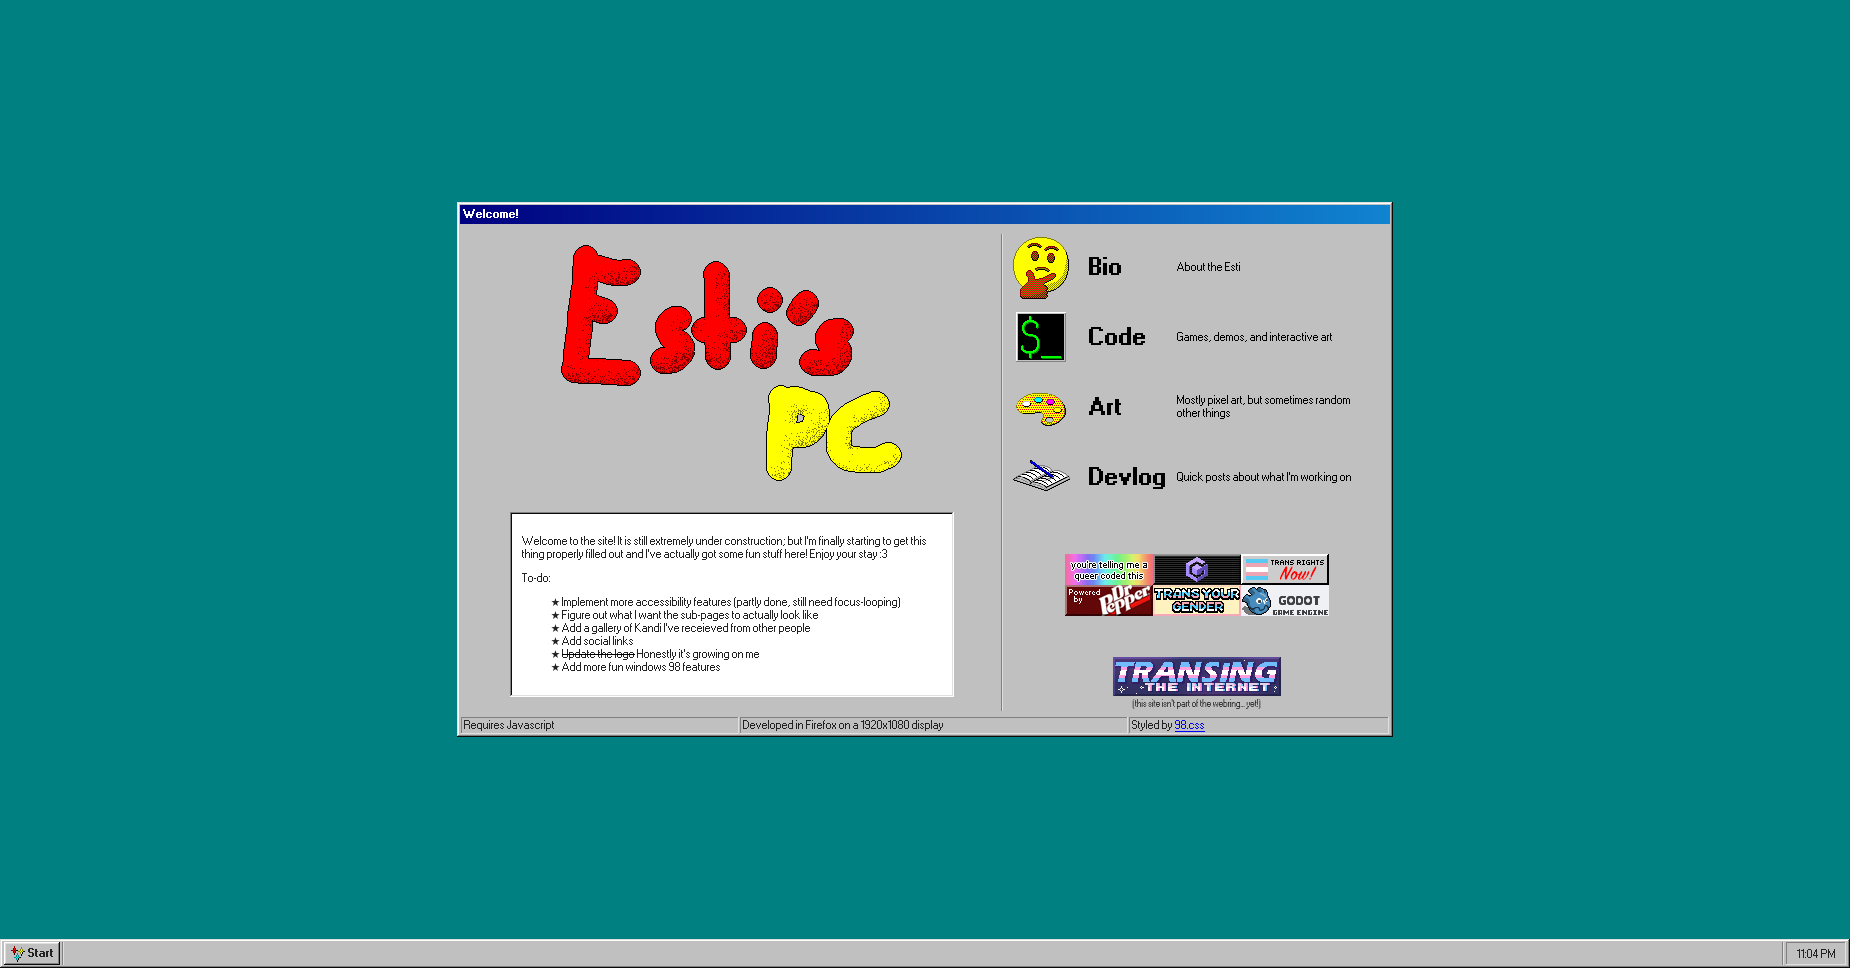
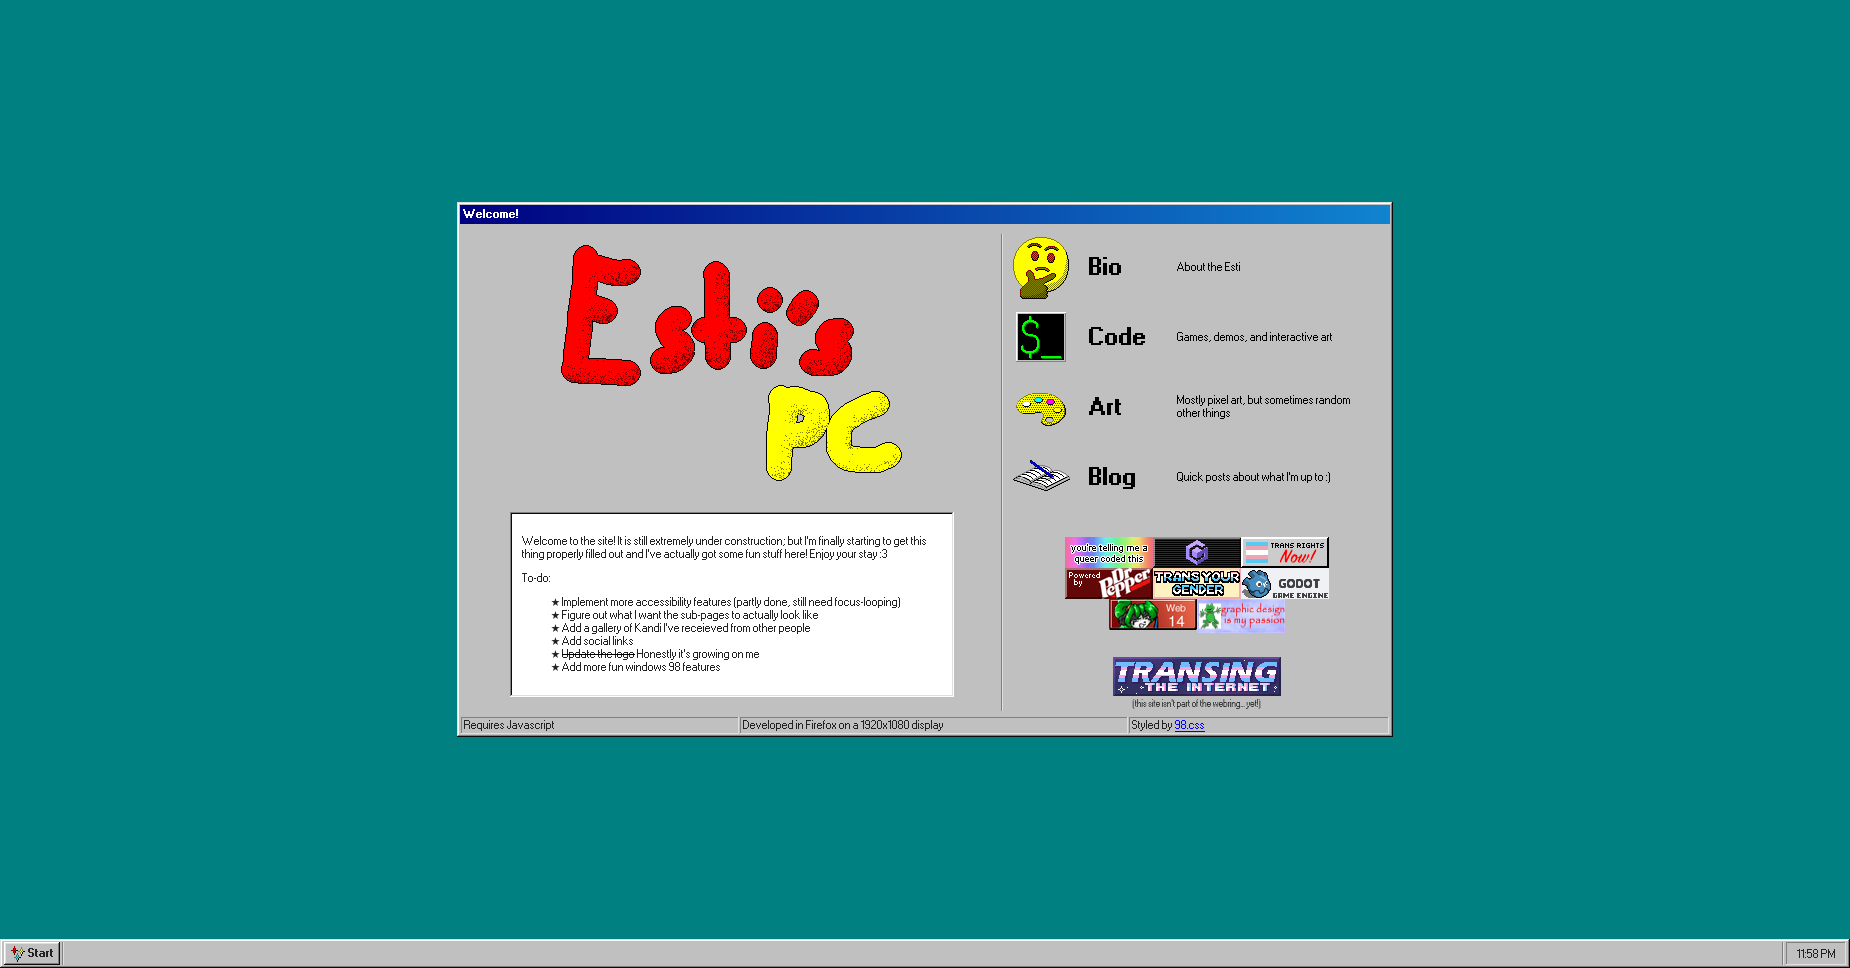
Adds blog post and more buttons

Changed region(s): [[0.5546, 0.5579, 0.7395, 0.6508], [0.5854, 0.4649, 0.6162, 0.4959]]

diff --git a/public/assets/dev-logs/002.html b/public/assets/dev-logs/002.html
@@ -1,0 +1,20 @@
+<p>
+	Hi Neocities!
+</p>
+
+<p>
+	I'm finally starting to get this together enough that it's feeling less like a work in progress and more like a proper site. I was kinda caught off-guard at how easy it was to get my Godot projects on here. I spent the past couple of days learning a bit more about developing to support accessibility tools and updating the site in-kind. There's still a few things I've gotta fix up, (namely the gallery) but it's getting there! The state of accessible web dev is honestly wild to me. Lot's of things that you'd expect would just be part of the standards by now, but apparently best practice is finding weird hacks to get your site to play nicely with accessibility tools. Sucks too, because I'm sure some people just give up at that point rather than implement them.
+</p>
+
+<figure class="left">
+	<img alt="beaded bracelet that says: 'glitter slut'. some of the beads are visibly worn down." src="/assets/glitterslut.jpg" style="width: 128px; height: 128px; object-fit: cover; object-position: -60px top;">
+	<figcaption>How could I live if I lost this?</figcaption>
+</figure>
+
+<p>
+	I think the next piece of content I want to get onto the site is a catalogue of the Kandi I've received from strangers at shows. I've been wanting to do this for a while because I've been having a harder time remembering the people I've gotten some of them from and I really don't want to forget. Plus I recently thought I lost my most important one, so I'm very eager to put together a record of them. Been thinking I'll get some colorful construction paper to use as backgrounds :)
+</p>
+
+<p>
+	As usual today when I went to make some new art from the site I wound up spending all my time making something completely different instead. I still find it really hard to sit down and make a specific thing; like I got really excited a few weeks ago about the idea of learning to produce music so that I could make some for games, but after really enjoying messing around and making whatever, I couldn't get myself to sit and put together something with a specific vibe for a specific level (ADHD certainly doesn't help there). In both cases I'm still happy with the things I <i>did</i> end up making, but it's frustrating when I have goals for bigger projects. Honestly just the fact that I'm keeping up with this site is progress for me.
+</p>

diff --git a/index.html b/index.html
@@ -108,6 +108,7 @@
 			margin: 0px auto;
 			flex-grow: 1;
 			align-content: center;
+			justify-content: center;
 		}
 	</style>
 </head>
@@ -146,17 +147,21 @@
 						</a>
 						<a id="nav-item" href="/src/dev-diary.html">
 							<img id="nav-icon" src="/assets/icons/diary-icon.png">
-							<div id="nav-title">Devlog</div>
-							<div id="nav-desc">Quick posts about what I'm working on</div>
+							<div id="nav-title">Blog</div>
+							<div id="nav-desc">Quick posts about what I'm up to :)</div>
 						</a>
 					</nav>
 					<div id="button-drawer">
-						<img src="/assets/buttons/queercodedthis.png">
-						<img src="/assets/buttons/gamecube.png">
-						<img src="/assets/buttons/transrightsnow.png">
-						<img src="/assets/buttons/drpepper.gif">
-						<img src="/assets/buttons/transyourgender.gif">
-						<img src="/assets/buttons/godot.png">
+						<img src="/assets/buttons/queercodedthis.png" alt="you're telling me a queer cooded this button">
+						<img src="/assets/buttons/gamecube.png" alt="gamecube logo button">
+						<img src="/assets/buttons/transrightsnow.png" alt="trans rights now button">
+						<img src="/assets/buttons/drpepper.gif" alt="powered by dr. pepper button">
+						<img src="/assets/buttons/transyourgender.gif" alt="trans your gender button">
+						<img src="/assets/buttons/godot.png" alt="godot game engine button">
+						<a href="https://www.mabsland.com/Adoption.html">
+							<img src="/assets/buttons/censor_14c.gif" alt="rated 14+ button" style="width: 88px; height:  31px;">
+						</a>
+						<img src="/assets/buttons/graphicdesign.png" alt="graphic design is my passion button">
 					</div>
 					<div style="display: flex; justify-content: center;">
 						<script src="https://transring.neocities.org/ring.js" data-widget="nb"></script>

diff --git a/src/dev-diary.html b/src/dev-diary.html
@@ -25,13 +25,15 @@
 			display: flex;
 			margin: 0px;
 			flex-grow: 1;
+			overflow: hidden;
 		}
 
 		#content {
-			background: url('/assets/red-space-inverted-sparse.png')
+			background: url('/assets/red-space-inverted-sparse.png');
+			overflow-y: scroll;
 		}
 
-		#posts {
+		#posts>section {
 			background-color: #FFFFFFD8;
 			border: 2px solid white;
 			border-radius: 2px;
@@ -64,10 +66,13 @@
 
 		.post figure {
 			box-sizing: border-box;
+			margin: 0px 30px;
 		}
 
 		.post figcaption {
 			text-align: center;
+			font-size: 8px;
+			font-family: 'Lucida Sans', 'Lucida Sans Regular', 'Lucida Grande', 'Lucida Sans Unicode', Geneva, Verdana, sans-serif;
 		}
 	</style>
 </head>
